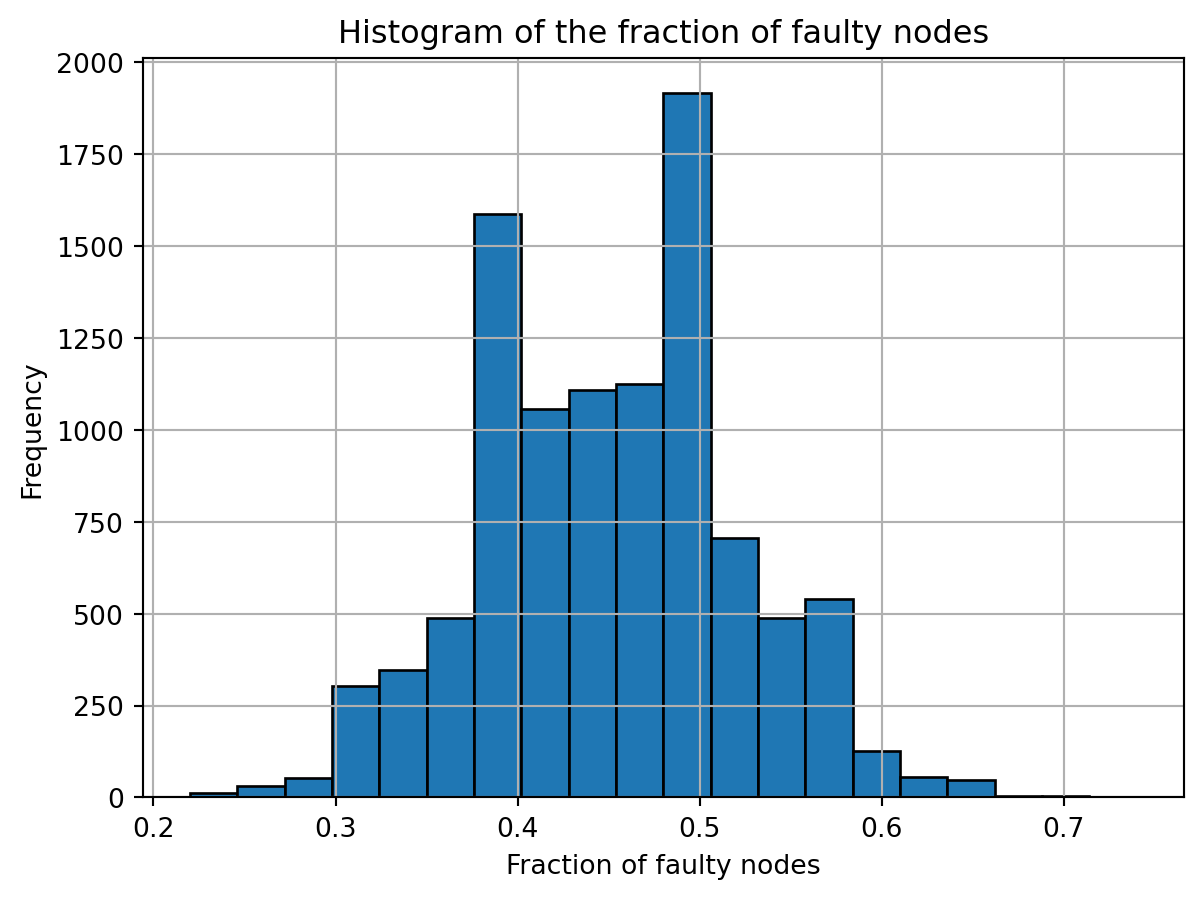
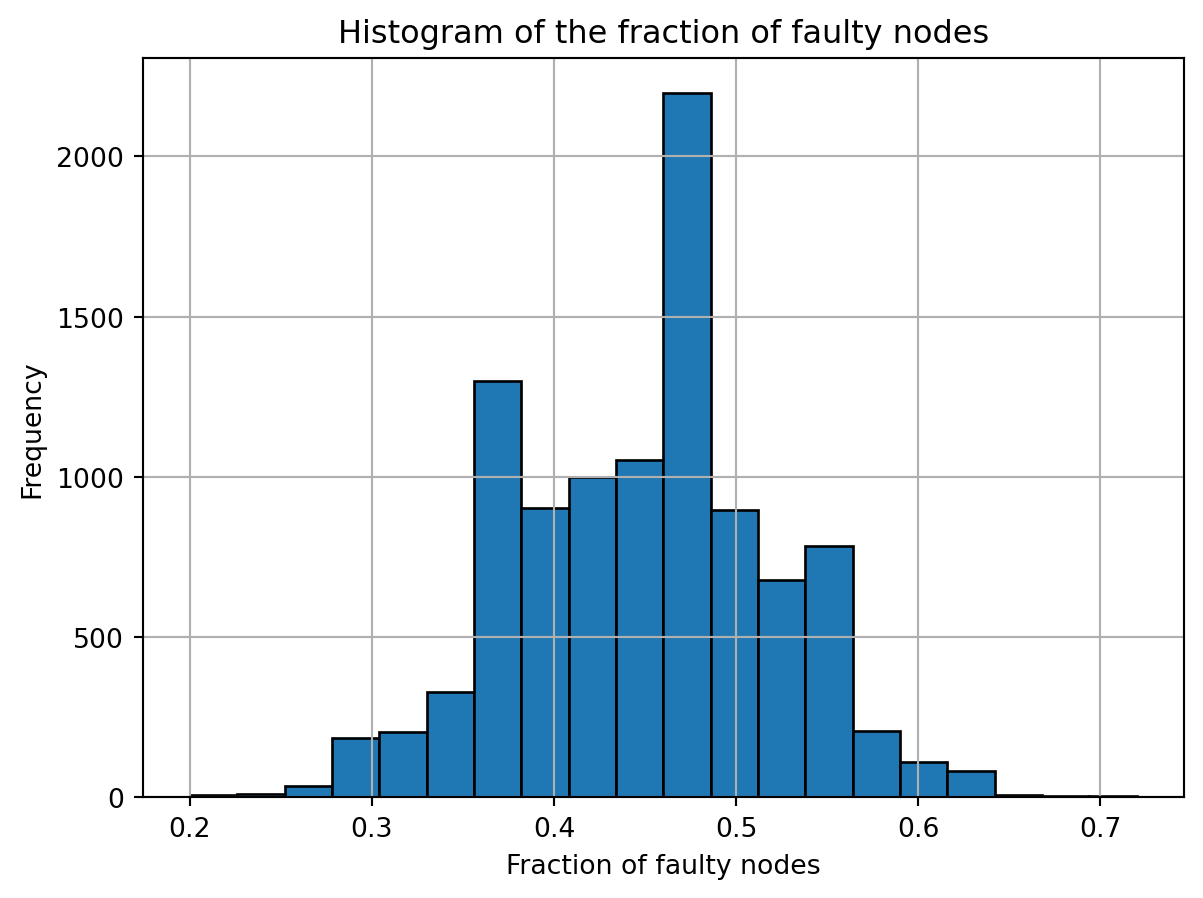
Add files via upload

diff --git a/08-tullock-contest.html b/08-tullock-contest.html
@@ -358,7 +358,7 @@ g_2(x) = 2 \cdot \frac{x}{8/9 + x} - x
   background-color: #ffffff;
 }
 </style>
-<div id="bd861688" class="cell" data-execution_count="1">
+<div id="f80ad459" class="cell" data-execution_count="1">
 <details class="code-fold">
 <summary>Show code generating the plot below</summary>
 <div class="sourceCode cell-code" id="cb1"><pre class="sourceCode python code-with-copy"><code class="sourceCode python"><span id="cb1-1"><a href="#cb1-1" aria-hidden="true" tabindex="-1"></a><span class="im">import</span> numpy <span class="im">as</span> np</span>
@@ -636,7 +636,7 @@ Exercise 8.7
   background-color: #ffffff;
 }
 </style>
-<div id="ebed291d" class="cell" data-execution_count="2">
+<div id="3c79d7dd" class="cell" data-execution_count="2">
 <details class="code-fold">
 <summary>Show code for executing best response dynamics</summary>
 <div class="sourceCode cell-code" id="cb3"><pre class="sourceCode python code-with-copy"><code class="sourceCode python"><span id="cb3-1"><a href="#cb3-1" aria-hidden="true" tabindex="-1"></a><span class="im">import</span> numpy <span class="im">as</span> np</span>
@@ -767,7 +767,7 @@ p_i(\mu) \geq p_i(\mu_i',\mu_{-i}) - \epsilon
 <span id="cb5-10"><a href="#cb5-10" aria-hidden="true" tabindex="-1"></a>    - Compute best response of miner i = t (mod n)</span>
 <span id="cb5-11"><a href="#cb5-11" aria-hidden="true" tabindex="-1"></a>    - Update value mu_i with the computed best response</span></code><button title="Copy to Clipboard" class="code-copy-button"><i class="bi"></i></button></pre></div>
 <p>In general, best response dynamics are not guaranteed to converge to an (<span class="math inline">\epsilon</span>-)PNE. This means that the while-loop in the pseudo-code above is not guaranteed to terminate. Let us look at such an example with two miners and <span class="math inline">\epsilon = 0</span>.</p>
-<div id="e58360b9" class="cell" data-execution_count="3">
+<div id="cf258fe3" class="cell" data-execution_count="3">
 <div class="sourceCode cell-code" id="cb6"><pre class="sourceCode python code-with-copy"><code class="sourceCode python"><span id="cb6-1"><a href="#cb6-1" aria-hidden="true" tabindex="-1"></a><span class="co"># Weight vector</span></span>
 <span id="cb6-2"><a href="#cb6-2" aria-hidden="true" tabindex="-1"></a>w <span class="op">=</span> np.array([<span class="fl">0.1</span>, <span class="dv">1</span>])</span>
 <span id="cb6-3"><a href="#cb6-3" aria-hidden="true" tabindex="-1"></a></span>
@@ -898,7 +898,7 @@ Exercise 8.11
   background-color: #ffffff;
 }
 </style>
-<div id="59a019e1" class="cell" data-execution_count="4">
+<div id="ce3e3ba5" class="cell" data-execution_count="4">
 <details class="code-fold">
 <summary>Show code for best response dynamics with potential function values</summary>
 <div class="sourceCode cell-code" id="cb8"><pre class="sourceCode python code-with-copy"><code class="sourceCode python"><span id="cb8-1"><a href="#cb8-1" aria-hidden="true" tabindex="-1"></a><span class="im">import</span> numpy <span class="im">as</span> np</span>
@@ -1119,7 +1119,7 @@ Exercise 8.15
   background-color: #ffffff;
 }
 </style>
-<div id="e2b88dd3" class="cell" data-execution_count="5">
+<div id="2cec380f" class="cell" data-execution_count="5">
 <details class="code-fold">
 <summary>Show code for solving maximization problem</summary>
 <div class="sourceCode cell-code" id="cb10"><pre class="sourceCode python code-with-copy"><code class="sourceCode python"><span id="cb10-1"><a href="#cb10-1" aria-hidden="true" tabindex="-1"></a><span class="im">import</span> numpy <span class="im">as</span> np</span>
@@ -1227,7 +1227,7 @@ p_i(\mu) = \frac{\mu_i^{\alpha}}{\sum_j \mu_j^{\alpha}} - \mu_i
 <section id="acknowledgements" class="level2" data-number="8.5">
 <h2 data-number="8.5" class="anchored" data-anchor-id="acknowledgements"><span class="header-section-number">8.5</span> Acknowledgements</h2>
 <p>Section 8.1, 8.2 and 8.4.1 are loosely based on Chapter 4.4 of the book <a href="https://www.cambridge.org/core/books/contest-theory/D25DFD8F016963420A08A9526D7D2253">Contest Theory: Incentive Mechanisms and Ranking Methods</a> (2016) by Milan Vojnović. The Tullock contest has originally been defined by Tullock (1980).</p>
-<p>Section 8.3 is based on the paper <a href="https://arxiv.org/pdf/2305.10881">Best-Response Dynamics in Lottery Contests</a> by Ghosh and Goldberg (2023). In particular, the example showing that best response dynamics might not converge is taken from this paper. The fact that the function <span class="math inline">P</span> in Section 2.3.1 is a best response potential function has been shown in the paper <a href="https://download.ssrn.com/17/03/22/ssrn_id2939180_code365048.pdf?response-content-disposition=inline&amp;X-Amz-Security-Token=IQoJb3JpZ2luX2VjENj%2F%2F%2F%2F%2F%2F%2F%2F%2F%2FwEaCXVzLWVhc3QtMSJHMEUCIQD0awxt8L87yElxEtwaXFnJQkYIIm9r1k7MsLIdsRn0qgIgcOFx1HcmuQN6JbX08Sg4yguYjc%2B%2BsuPKwOlAv0YhHQsqvgUIQRAEGgwzMDg0NzUzMDEyNTciDOydYl3Mvr5Imbp9lyqbBYb7FWy0%2Fvq9EOlHG%2FKX2r1XlzZ6kOvDXtrjukVqzPm5VR48oClHdYA81iO%2F65ni%2Fe1wV4pHgtSi%2BmmmZpIQZaN1vrn4XWzwSA%2FK9FVGawAxah0cURWQXZW4PDgC%2BeO8D8maWtIe%2ByVefiZxFhfs%2FHjpDYC9dHOClU%2BnE4%2BVRcP51SsfNDBIAKJzGkznvZfHwKNGGxsbqIIY1RqJf68LzcHnshrl9nK5XfbVjCTCOcWtiX6P8K%2FMzl4NnOaas47a3kXIsO7AdXvmCYMRCm%2B3UyOOH4gHW47jw4Thjk%2Bkhc9T3G8ngLW%2BaqxrkVNCwTLZu9Spd7QJfijwUGsODepIXFFdBv%2BpbJ4orwA56tIx7KY4RlertrC1MiBUqA%2F2lf%2BR4bTQUqlPg%2BPoM%2FoWbDshC4H9Gku7GZF%2B2PleO3kWcSS0F7uZGjZAXmXzM8C4%2FUwpHMBkg68eIbXcGc8YdoVbz%2F%2BuO8gZhVROoJL5tMc45C0giiC6pFAyeTetlynPmD31WF5Iulu89zb%2BURnrX8feGMj%2BxgMn1M%2BnBV1b71xfgBiMd7WlJAESUTVsiB5u1ks%2BS9i5qXCcrYGmrUPfuB05W1yR4EiVi4qNX5aYYLd3ckZcyU5Fn8fOOCJhF0T0YUMOliKQbbvgIJUlUZFfcNQcs23hfX0MoQWVO3nPvU%2BHKg8yH9dsRA4JaV8wOd9rg%2FNMFyV6U%2FsMrn9ftXP%2FiLpgWf8AKDjQT%2FSv22vJSfc83cqTYc7CkZyA6HFeWoUI2%2Fcq5pKeZTpopoJ6fKONJUqOzR%2BFy84HGJAXTm%2BJBaW8Kh%2FTu1eqTo66l%2BViNPr6G0JoAZpaY%2FnkFdQV16B%2FlXtxw1nhPYm3W7PhC5998hLCEr%2FqB5vfaj40trgyc0Yw7PqTvwY6sQEddkILDsUvjWpoVWu4UaEgFP9ATVNg%2FAEruaF95UzD0RNsV3r3u3sG411hV%2FqYQ3OOiCoD6s0eUsuR48luP7NogmyfBDGIwFeybPZT7stm%2FOfLkVx3Lap4tt1eQMSpoqzXImYytoaBVXm4ZCxk4zW9P3S%2FCkuQYW49XiBLkcY8pj40p2PHSVG8Gjn5kc4hU1Lgr3a1tGRjdib9iUQMLsf%2FfhpuAicEUm2rYFsnJsYsL0g%3D&amp;X-Amz-Algorithm=AWS4-HMAC-SHA256&amp;X-Amz-Date=20250327T073656Z&amp;X-Amz-SignedHeaders=host&amp;X-Amz-Expires=300&amp;X-Amz-Credential=ASIAUPUUPRWEQY56UZQR%2F20250327%2Fus-east-1%2Fs3%2Faws4_request&amp;X-Amz-Signature=13eaca4838bdd379a73e3ea857f0ead952144371f3f4802454b9d161f87f95b1&amp;abstractId=2913559">The Lottery Contest is a Best-Response Potential Game</a> by Ewerhart (2017).</p>
+<p>Section 8.3 is based on the paper <a href="https://arxiv.org/pdf/2305.10881">Best-Response Dynamics in Lottery Contests</a> by Ghosh and Goldberg (2023). In particular, the example showing that best response dynamics might not converge is taken from this paper. The fact that the function <span class="math inline">P</span> in Section 2.3.1 is a best response potential function has been shown in the paper <a href="https://papers.ssrn.com/sol3/papers.cfm?abstract_id=2913559">The Lottery Contest is a Best-Response Potential Game</a> by Ewerhart (2017).</p>
 <p>Section 8.4.1 is based on the paper <a href="https://arxiv.org/pdf/1811.08572"> Bitcoin: A Natural Oligopoly</a> by Arnosti and Weinberg (2018).</p>
 
 

diff --git a/05-LongestChain.html b/05-LongestChain.html
@@ -624,7 +624,7 @@ Case ii) is essentially a generalization of case i): suppose that the integer $K
 </ul>
 <p>Can we turn this “on expectation” statement into a “with high probability” statement? To gain some intuition, you are invited to experiment with different values of <span class="math inline">\alpha</span> and <span class="math inline">K</span>, using the Python code snippets below.</p>
 <p>To create one such leader sequence, use the following code:</p>
-<div id="f7588b58" class="cell" data-execution_count="1">
+<div id="29ba600b" class="cell" data-execution_count="1">
 <details class="code-fold">
 <summary>Code</summary>
 <div class="sourceCode cell-code" id="cb2"><pre class="sourceCode python code-with-copy"><code class="sourceCode python"><span id="cb2-1"><a href="#cb2-1" aria-hidden="true" tabindex="-1"></a><span class="im">import</span> numpy <span class="im">as</span> np</span>
@@ -646,7 +646,7 @@ Case ii) is essentially a generalization of case i): suppose that the integer $K
 <span id="cb2-17"><a href="#cb2-17" aria-hidden="true" tabindex="-1"></a>    <span class="cf">return</span> samples</span></code><button title="Copy to Clipboard" class="code-copy-button"><i class="bi"></i></button></pre></div>
 </details>
 </div>
-<div id="ec33e5ad" class="cell" data-execution_count="2">
+<div id="2989749e" class="cell" data-execution_count="2">
 <div class="sourceCode cell-code" id="cb3"><pre class="sourceCode python code-with-copy"><code class="sourceCode python"><span id="cb3-1"><a href="#cb3-1" aria-hidden="true" tabindex="-1"></a><span class="co"># Example usage:</span></span>
 <span id="cb3-2"><a href="#cb3-2" aria-hidden="true" tabindex="-1"></a>K <span class="op">=</span> <span class="dv">10</span>      <span class="co"># number of leaders</span></span>
 <span id="cb3-3"><a href="#cb3-3" aria-hidden="true" tabindex="-1"></a>alpha <span class="op">=</span> <span class="fl">0.45</span> <span class="co"># probability of leader being faulty</span></span>
@@ -655,12 +655,12 @@ Case ii) is essentially a generalization of case i): suppose that the integer $K
 <span id="cb3-6"><a href="#cb3-6" aria-hidden="true" tabindex="-1"></a></span>
 <span id="cb3-7"><a href="#cb3-7" aria-hidden="true" tabindex="-1"></a><span class="bu">print</span>(<span class="st">"Fraction of faulty leaders:"</span>, np.<span class="bu">sum</span>(samples)<span class="op">/</span>K)</span></code><button title="Copy to Clipboard" class="code-copy-button"><i class="bi"></i></button></pre></div>
 <div class="cell-output cell-output-stdout">
-<pre><code>Sampled leaders: [1 1 1 0 0 0 1 0 0 1]
+<pre><code>Sampled leaders: [1 0 1 1 0 1 1 0 0 0]
 Fraction of faulty leaders: 0.5</code></pre>
 </div>
 </div>
 <p>If you run the above code several times, you will see that the outcome varies a bit. The following code allows you to run the process <span class="math inline">T</span> times and create a histogram of the fractions of faulty nodes.</p>
-<div id="5408f44f" class="cell" data-execution_count="3">
+<div id="0d684914" class="cell" data-execution_count="3">
 <details class="code-fold">
 <summary>Code</summary>
 <div class="sourceCode cell-code" id="cb5"><pre class="sourceCode python code-with-copy"><code class="sourceCode python"><span id="cb5-1"><a href="#cb5-1" aria-hidden="true" tabindex="-1"></a><span class="kw">def</span> sample_T_sequences(T, K, alpha):</span>
@@ -699,7 +699,7 @@ Fraction of faulty leaders: 0.5</code></pre>
   background-color: #ffffff;
 }
 </style>
-<div id="aab736c9" class="cell" data-execution_count="4">
+<div id="1b221c97" class="cell" data-execution_count="4">
 <div class="sourceCode cell-code" id="cb6"><pre class="sourceCode python code-with-copy"><code class="sourceCode python"><span id="cb6-1"><a href="#cb6-1" aria-hidden="true" tabindex="-1"></a><span class="co"># Example usage:</span></span>
 <span id="cb6-2"><a href="#cb6-2" aria-hidden="true" tabindex="-1"></a>T <span class="op">=</span> <span class="dv">10000</span>     <span class="co"># Number of leader sequences</span></span>
 <span id="cb6-3"><a href="#cb6-3" aria-hidden="true" tabindex="-1"></a>K <span class="op">=</span> <span class="dv">50</span>       <span class="co"># Number of leaders per sequence</span></span>
@@ -713,7 +713,7 @@ Fraction of faulty leaders: 0.5</code></pre>
 <span id="cb6-11"><a href="#cb6-11" aria-hidden="true" tabindex="-1"></a><span class="co"># Plot the histogram of fractions</span></span>
 <span id="cb6-12"><a href="#cb6-12" aria-hidden="true" tabindex="-1"></a>plot_histogram(fractions)</span></code><button title="Copy to Clipboard" class="code-copy-button"><i class="bi"></i></button></pre></div>
 <div class="cell-output cell-output-stdout">
-<pre><code>The fraction of leader sequences that are balanced is: 0.7166</code></pre>
+<pre><code>The fraction of leader sequences that are balanced is: 0.7225</code></pre>
 </div>
 <div class="cell-output cell-output-display">
 <div class="quarto-figure quarto-figure-center">

diff --git a/06-ProofofWork.html b/06-ProofofWork.html
@@ -322,14 +322,14 @@ window.Quarto = {
 <h2 data-number="6.3" class="anchored" data-anchor-id="sha-256"><span class="header-section-number">6.3</span> SHA-256</h2>
 <p>Here we give a brief illustration of how hashing works. We will use as example the SHA-256 hash function. SHA stands for Secure Hash Algorithm. The number 256 refers to the number of bits of the output.</p>
 <p>We will use the python <code>hashlib</code> module, which we first need to import.</p>
-<div id="f3cfb747" class="cell" data-execution_count="1">
+<div id="7c2f22c3" class="cell" data-execution_count="1">
 <details class="code-fold">
 <summary>Code</summary>
 <div class="sourceCode cell-code" id="cb1"><pre class="sourceCode python code-with-copy"><code class="sourceCode python"><span id="cb1-1"><a href="#cb1-1" aria-hidden="true" tabindex="-1"></a><span class="im">import</span> hashlib</span></code><button title="Copy to Clipboard" class="code-copy-button"><i class="bi"></i></button></pre></div>
 </details>
 </div>
 <p>Here is an example of how to use SHA256 to hash a short message. The input message will be ``Decentralized finance is cool!’’ and the output is a bitstring of length 256.</p>
-<div id="b4bb16d9" class="cell" data-execution_count="2">
+<div id="c16f5096" class="cell" data-execution_count="2">
 <div class="sourceCode cell-code" id="cb2"><pre class="sourceCode python code-with-copy"><code class="sourceCode python"><span id="cb2-1"><a href="#cb2-1" aria-hidden="true" tabindex="-1"></a><span class="co"># The message to hash</span></span>
 <span id="cb2-2"><a href="#cb2-2" aria-hidden="true" tabindex="-1"></a>message <span class="op">=</span> <span class="st">"Decentralized finance is cool!"</span></span>
 <span id="cb2-3"><a href="#cb2-3" aria-hidden="true" tabindex="-1"></a></span>
@@ -349,7 +349,7 @@ Length of the bitstring: 256</code></pre>
 </div>
 </div>
 <p>Let us now investigate the key property of hash functions: they look like a random function. In particular, this implies that it is hard to predict the output of the function. To illustrate this, let us hash a second message that is very similar to the first: ``Decentralized finance is cool!!!’’</p>
-<div id="d153bc72" class="cell" data-execution_count="3">
+<div id="3deeb19c" class="cell" data-execution_count="3">
 <details class="code-fold">
 <summary>Code</summary>
 <div class="sourceCode cell-code" id="cb4"><pre class="sourceCode python code-with-copy"><code class="sourceCode python"><span id="cb4-1"><a href="#cb4-1" aria-hidden="true" tabindex="-1"></a><span class="co">### Second message </span></span>
@@ -372,7 +372,7 @@ Length of the bitstring: 256</code></pre>
 </div>
 </div>
 <p>If you compare the two strings, you will notice some differences right away. How different are the two strings? If the hash function assigns a random output to every input, then you would expect the two bitstrings to differ in roughly half their entries. Let us use python to count the number of different entries in the two strings.</p>
-<div id="61b6fc2d" class="cell" data-execution_count="4">
+<div id="b5b1e221" class="cell" data-execution_count="4">
 <details class="code-fold">
 <summary>Code</summary>
 <div class="sourceCode cell-code" id="cb6"><pre class="sourceCode python code-with-copy"><code class="sourceCode python"><span id="cb6-1"><a href="#cb6-1" aria-hidden="true" tabindex="-1"></a><span class="kw">def</span> count_differences(bitstring1, bitstring2):</span>
